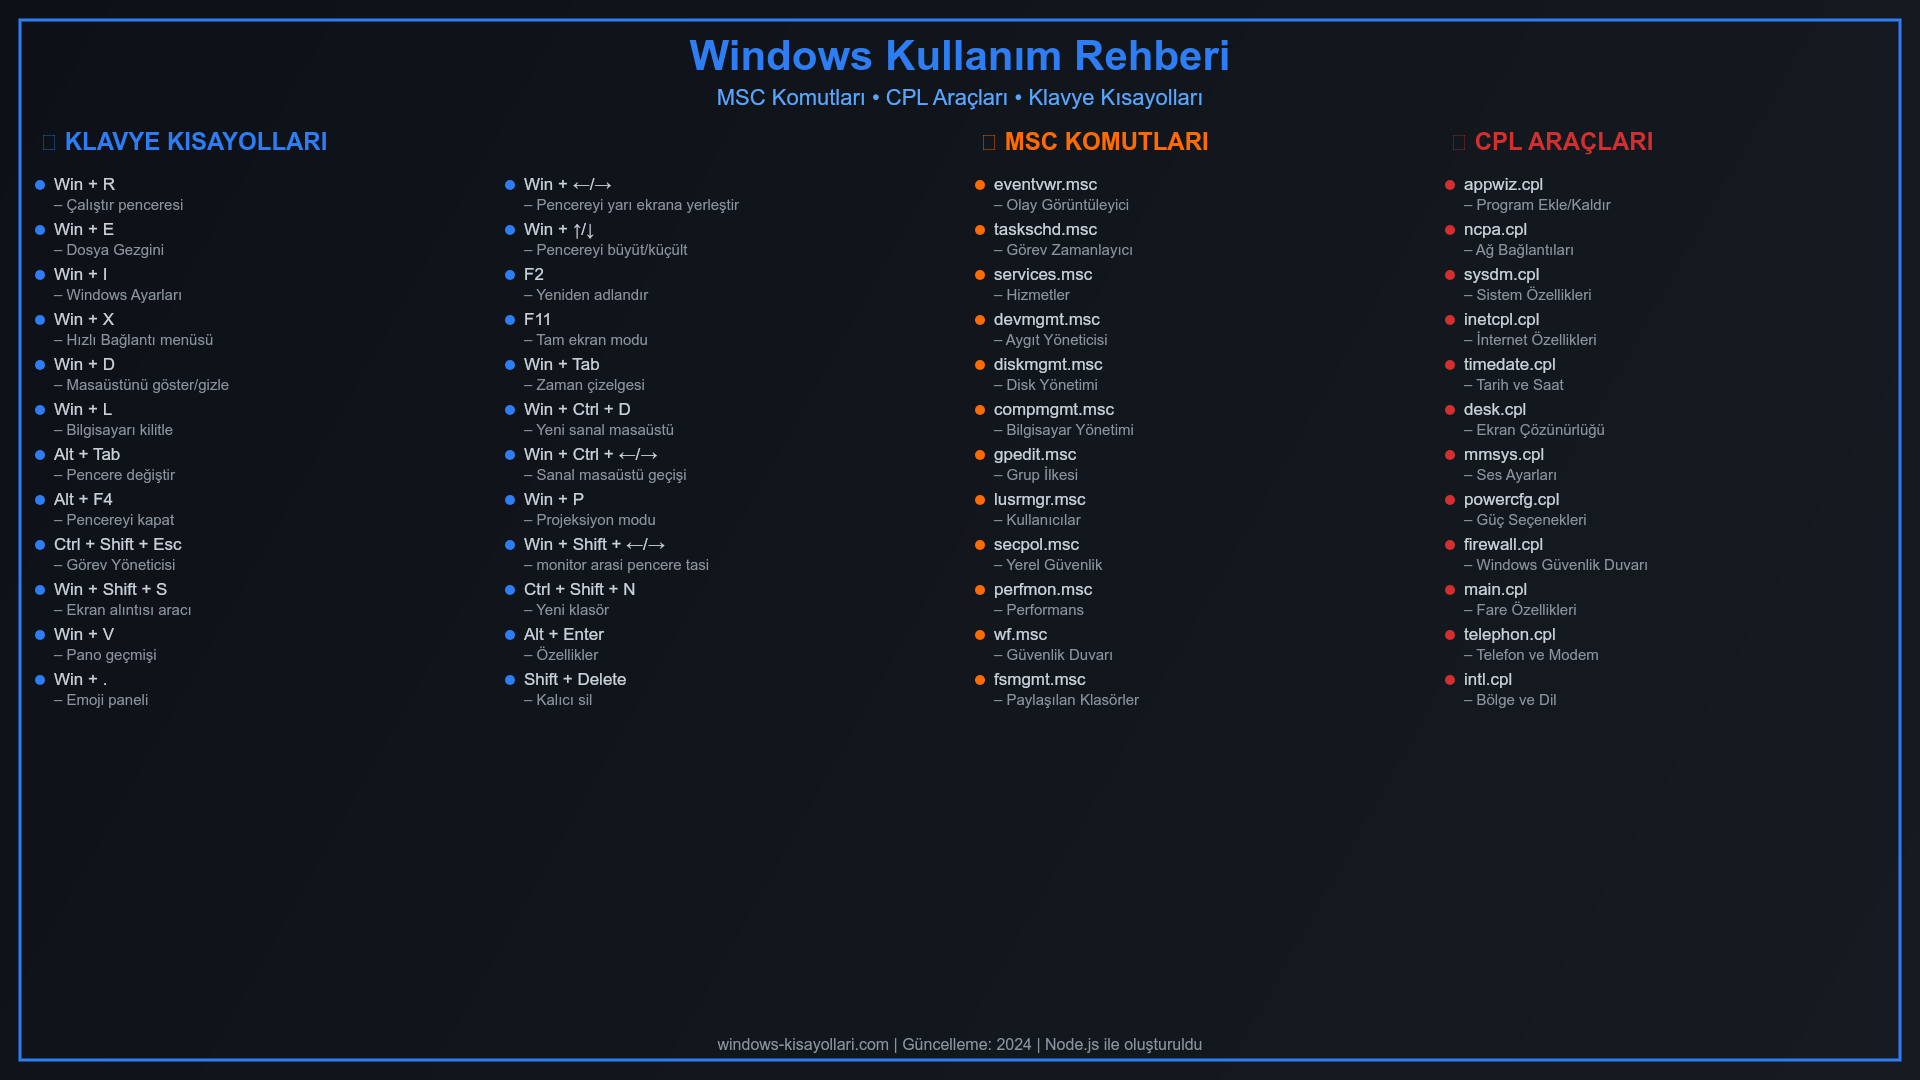
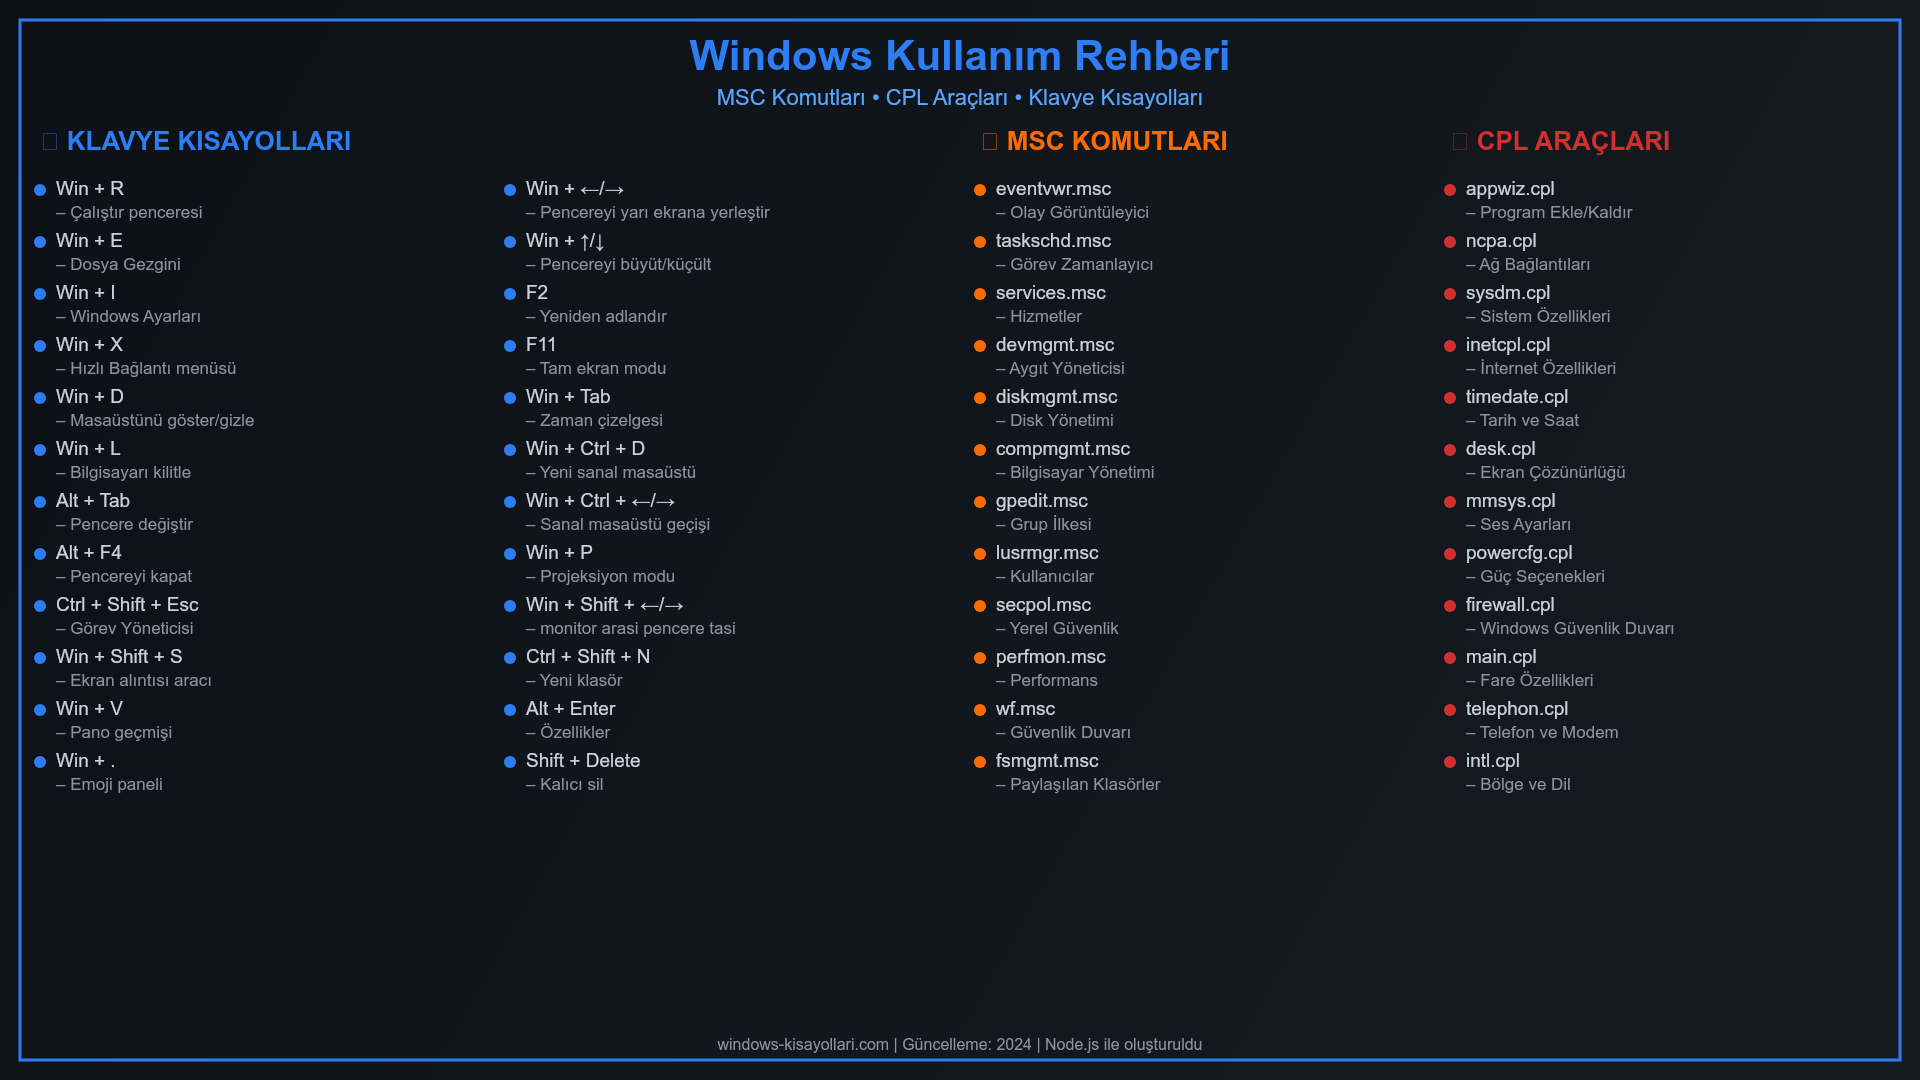
successfully updated the widescreen Full HD wallpaper with larger fonts and increased spacing throughout

diff --git a/script.js b/script.js
@@ -233,14 +233,14 @@ async function createWidescreenWallpaper(data) {
     
     // Bölüm başlığı
     ctx.fillStyle = section.color;
-    ctx.font = 'bold 24px Arial';
+    ctx.font = 'bold 26px Arial';
     ctx.textAlign = 'left';
     ctx.fillText(section.title, x, currentY);
     
-    currentY += 40;
+    currentY += 45;
     
     // Maddeler
-    ctx.font = '17px Arial';
+    ctx.font = '19px Arial';
     
     const itemsToShow = maxItems ? section.items.slice(0, maxItems) : section.items;
     
@@ -248,22 +248,22 @@ async function createWidescreenWallpaper(data) {
       // Nokta
       ctx.fillStyle = section.color;
       ctx.beginPath();
-      ctx.arc(x, currentY - 5, 5, 0, Math.PI * 2);
+      ctx.arc(x, currentY - 5, 6, 0, Math.PI * 2);
       ctx.fill();
       
       // Komut
       ctx.fillStyle = meta.colors.text;
       const commandText = item.command;
-      ctx.fillText(commandText, x + 14, currentY);
+      ctx.fillText(commandText, x + 16, currentY);
       
       // Açıklama
       ctx.fillStyle = '#8b949e';
-      ctx.font = '15px Arial';
-      const descText = `– ${item.description}`;
-      ctx.fillText(descText, x + 14, currentY + 20);
       ctx.font = '17px Arial';
+      const descText = `– ${item.description}`;
+      ctx.fillText(descText, x + 16, currentY + 23);
+      ctx.font = '19px Arial';
       
-      currentY += 45;
+      currentY += 52;
     });
     
     return currentY;
@@ -278,46 +278,46 @@ async function createWidescreenWallpaper(data) {
     // Sol yarı - başlıkla birlikte (1. sütun)
     let keyboardY = startY;
     ctx.fillStyle = keyboardShortcuts.color;
-    ctx.font = 'bold 24px Arial';
+    ctx.font = 'bold 26px Arial';
     ctx.textAlign = 'left';
     ctx.fillText(keyboardShortcuts.title, col1X, keyboardY);
-    keyboardY += 40;
+    keyboardY += 45;
     
-    ctx.font = '17px Arial';
+    ctx.font = '19px Arial';
     keyboardShortcuts.items.slice(0, halfPoint).forEach((item) => {
       ctx.fillStyle = keyboardShortcuts.color;
       ctx.beginPath();
-      ctx.arc(col1X, keyboardY - 5, 5, 0, Math.PI * 2);
+      ctx.arc(col1X, keyboardY - 5, 6, 0, Math.PI * 2);
       ctx.fill();
       
       ctx.fillStyle = meta.colors.text;
-      ctx.fillText(item.command, col1X + 14, keyboardY);
+      ctx.fillText(item.command, col1X + 16, keyboardY);
       
       ctx.fillStyle = '#8b949e';
-      ctx.font = '15px Arial';
-      ctx.fillText(`– ${item.description}`, col1X + 14, keyboardY + 20);
       ctx.font = '17px Arial';
+      ctx.fillText(`– ${item.description}`, col1X + 16, keyboardY + 23);
+      ctx.font = '19px Arial';
       
-      keyboardY += 45;
+      keyboardY += 52;
     });
     
     // Sağ yarı - başlık olmadan (2. sütun)
-    keyboardY = startY + 40;
+    keyboardY = startY + 45;
     keyboardShortcuts.items.slice(halfPoint).forEach((item) => {
       ctx.fillStyle = keyboardShortcuts.color;
       ctx.beginPath();
-      ctx.arc(col2X, keyboardY - 5, 5, 0, Math.PI * 2);
+      ctx.arc(col2X, keyboardY - 5, 6, 0, Math.PI * 2);
       ctx.fill();
       
       ctx.fillStyle = meta.colors.text;
-      ctx.fillText(item.command, col2X + 14, keyboardY);
+      ctx.fillText(item.command, col2X + 16, keyboardY);
       
       ctx.fillStyle = '#8b949e';
-      ctx.font = '15px Arial';
-      ctx.fillText(`– ${item.description}`, col2X + 14, keyboardY + 20);
       ctx.font = '17px Arial';
+      ctx.fillText(`– ${item.description}`, col2X + 16, keyboardY + 23);
+      ctx.font = '19px Arial';
       
-      keyboardY += 45;
+      keyboardY += 52;
     });
     
     // MSC ve CPL sağ tarafta (3. ve 4. sütunlar)
